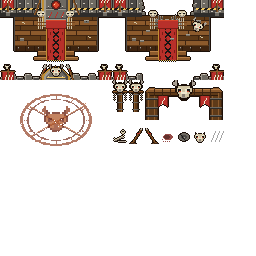
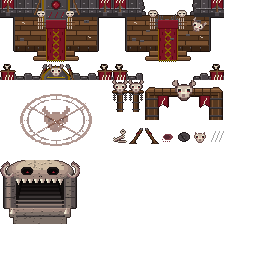
놀 대족장 투기장: 원작 녹픽던에 가까운 차분한 그림체로 다시 칠함(검은 테두리 대신 같은 색의 어두운 테두리, 드워프 도시 카펫 같은 짙은 진홍·금빛, 경고 줄무늬 대신 징 박은 쇠띠, 바닥 문장은 더 옅게), 놀 제국 타일의 방책·천막·뼈·고철 빛깔도 낮춤. 내려가는 곳을 사다리 대신 바위에 새긴 거대한 놀 해골의 입 안으로 이어진 3칸 돌계단으로(어디를 밟아도 내려감, 이름·설명 추가)
Claude-Session: https://claude.ai/code/session_01APSKFNB8xpLfNtbCfNBsyA

diff --git a/core/src/main/java/com/shatteredpixel/shatteredpixeldungeon/levels/GnollEmpireBossLevel.java b/core/src/main/java/com/shatteredpixel/shatteredpixeldungeon/levels/GnollEmpireBossLevel.java
@@ -61,11 +61,11 @@ public class GnollEmpireBossLevel extends Level {
 
 	//'#' 바위, '=' 방책, '.' 바닥, ',' 짓밟힌 흙, '_' 왕좌 단, 'T' 왕좌(대족장 자리), 'B' 깃발,
 	//'G' 증원 성문(골방), 'g' 방책의 성문 틈, 'f' 모닥불, 'S' 승리하면 열리는 통로(바위), 'P' 승리하면 열리는 방책,
-	//'<' 입구, '>' 출구
+	//'<' 입구, 'E' 출구 (해골 입으로 내려가는 큰 돌계단, 3x2)
 	private static final String[] MAP = {
 			"#################################",
-			"############f.......f############",
-			"############....>....############",
+			"############f.#EEE#.f############",
+			"############..#EEE#..############",
 			"############..,...,..############",
 			"############%.......%############",
 			"###############SSS###############",
@@ -163,7 +163,7 @@ public class GnollEmpireBossLevel extends Level {
 					case 'S': t = Terrain.WALL; victoryPath.add( cell ); break;
 					case 'P': t = Terrain.BARRICADE; victoryPath.add( cell ); break;
 					case '<': t = Terrain.ENTRANCE; entrance = cell; break;
-					case '>': t = Terrain.EXIT; exit = cell; break;
+					case '>': case 'E': t = Terrain.EXIT; break;
 					case '.': default: t = Terrain.EMPTY; break;
 				}
 				map[cell] = t;
@@ -174,7 +174,11 @@ public class GnollEmpireBossLevel extends Level {
 		sealCell = 16 + 21 * W;
 
 		transitions.add( new LevelTransition( this, entrance, LevelTransition.Type.REGULAR_ENTRANCE ) );
-		transitions.add( new LevelTransition( this, exit, LevelTransition.Type.REGULAR_EXIT ) );
+		//출구: 3x2 계단 어디를 밟아도 내려감
+		exit = 16 + 2 * W;
+		LevelTransition down = new LevelTransition( this, exit, LevelTransition.Type.REGULAR_EXIT );
+		down.set( 15, 1, 17, 2 );
+		transitions.add( down );
 
 		feeling = Feeling.NONE;
 		return true;
@@ -497,6 +501,9 @@ public class GnollEmpireBossLevel extends Level {
 			visuals.add( arenaImage( 112 + 16*d[2], 128, 16, 16, d[0]*S, d[1]*S ) );
 		}
 
+		//내려가는 곳의 문턱 (3행, 몹 아래)
+		visuals.add( arenaImage( 0, 208, 80, 16, 14*S, 3*S ) );
+
 		//왕좌 단 (쓰러뜨린 뒤에는 부서진 왕좌)
 		throneLow = arenaImage( bossDefeated ? 112 : 0, 0, 112, 64, THRONE_X*S, THRONE_Y*S );
 		visuals.add( throneLow );
@@ -524,6 +531,8 @@ public class GnollEmpireBossLevel extends Level {
 		wallVisuals.add( throneUp );
 		//입구 아치 (지나갈 때 머리 위로 지나가게 벽 위 층)
 		wallVisuals.add( arenaImage( 144, 80, 80, 40, 14*S, 21*S - 40 ) );
+		//내려가는 곳: 바위에 새긴 거대한 놀 해골, 그 입 안으로 이어진 돌계단 (0~2행은 벽 위 층)
+		wallVisuals.add( arenaImage( 0, 160, 80, 48, 14*S, 0 ) );
 		return wallVisuals;
 	}
 
@@ -541,6 +550,7 @@ public class GnollEmpireBossLevel extends Level {
 	@Override
 	public String tileName( int tile ) {
 		if (tile == Terrain.EMPTY_SP) return Messages.get( this, "throne_name" );
+		if (tile == Terrain.EXIT) return Messages.get( this, "exit_name" );
 		String n = GnollEmpire.tileName( tile );
 		return n != null ? n : super.tileName( tile );
 	}
@@ -549,7 +559,7 @@ public class GnollEmpireBossLevel extends Level {
 	public String tileDesc( int tile ) {
 		if (tile == Terrain.EMPTY_SP) return Messages.get( this, "throne_desc" );
 		if (tile == Terrain.ENTRANCE) return Messages.get( CavesLevel.class, "entrance_desc" );
-		if (tile == Terrain.EXIT) return Messages.get( CavesLevel.class, "exit_desc" );
+		if (tile == Terrain.EXIT) return Messages.get( this, "exit_desc" );
 		String d = GnollEmpire.tileDesc( tile );
 		return d != null ? d : super.tileDesc( tile );
 	}
